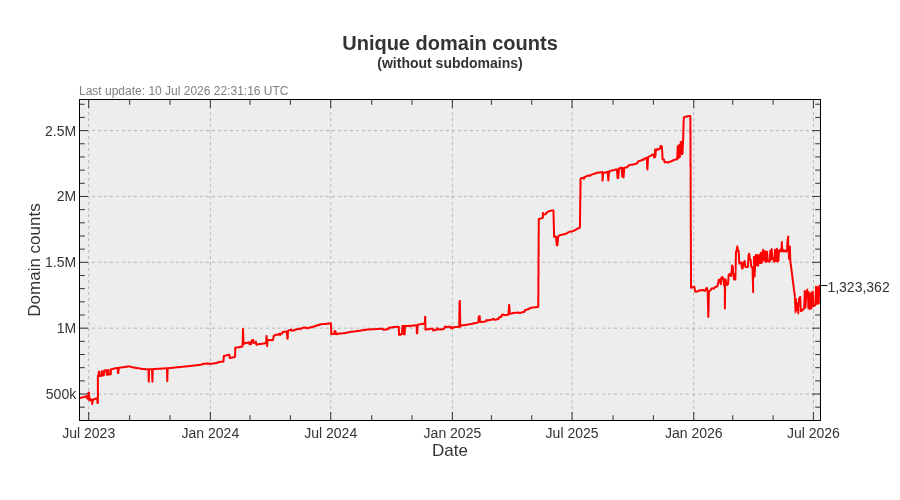
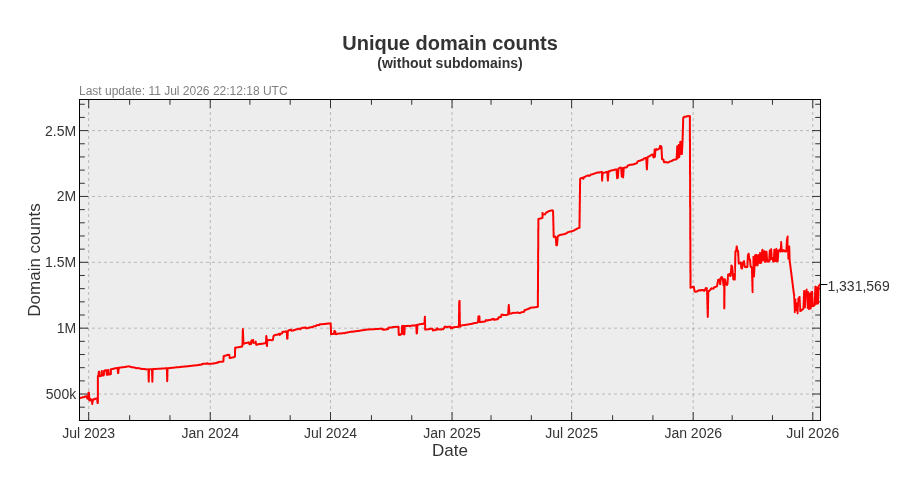
Update pages

diff --git a/README.md b/README.md
@@ -3,22 +3,22 @@ A blocklist file for blocking ads, trackers and malware domains.
 
[1 lines of base64/hex data omitted]
 
-- Unique domains: 2,002,158
-- Without subdomains: 1,323,362
-- Last update: 10 Jul 2026 22:31:16 UTC
-- Version: 2026.07.10.01
+- Unique domains: 2,010,913
+- Without subdomains: 1,331,569
+- Last update: 11 Jul 2026 22:12:18 UTC
+- Version: 2026.07.11.01
 
 
 ## Downloads:
 
 | Format             | Domain count      | Download Link |
 |------------------ | -----------------|-------------|
-| *Adblock Plus*     | 1,323,362 | [bad-hosts-abp](https://dl.cenk.app/bad-hosts/bad-hosts-abp) |
-| *Wildcard domains* | 1,323,362 | [bad-hosts-wildcard](https://dl.cenk.app/bad-hosts/bad-hosts-wildcard) |
-| *dnsmasq*          | 1,323,362 | [bad-hosts-dnsmasq](https://dl.cenk.app/bad-hosts/bad-hosts-dnsmasq) |
-| *hosts*            | 2,002,158 | [hosts](https://dl.cenk.app/bad-hosts/hosts) |
-| *hosts (ipv6)*     | 2,002,158 | [hosts-ipv6](https://dl.cenk.app/bad-hosts/hosts-ipv6) |
-| *Plain domains*    | 2,002,158 | [bad-hosts-domains](https://dl.cenk.app/bad-hosts/bad-hosts-domains) |
+| *Adblock Plus*     | 1,331,569 | [bad-hosts-abp](https://dl.cenk.app/bad-hosts/bad-hosts-abp) |
+| *Wildcard domains* | 1,331,569 | [bad-hosts-wildcard](https://dl.cenk.app/bad-hosts/bad-hosts-wildcard) |
+| *dnsmasq*          | 1,331,569 | [bad-hosts-dnsmasq](https://dl.cenk.app/bad-hosts/bad-hosts-dnsmasq) |
+| *hosts*            | 2,010,913 | [hosts](https://dl.cenk.app/bad-hosts/hosts) |
+| *hosts (ipv6)*     | 2,010,913 | [hosts-ipv6](https://dl.cenk.app/bad-hosts/hosts-ipv6) |
+| *Plain domains*    | 2,010,913 | [bad-hosts-domains](https://dl.cenk.app/bad-hosts/bad-hosts-domains) |
 
 ## Domain count history
 ### With subdomains
